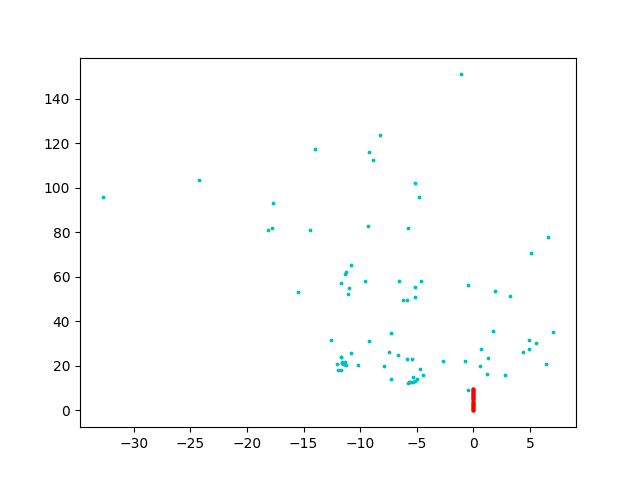
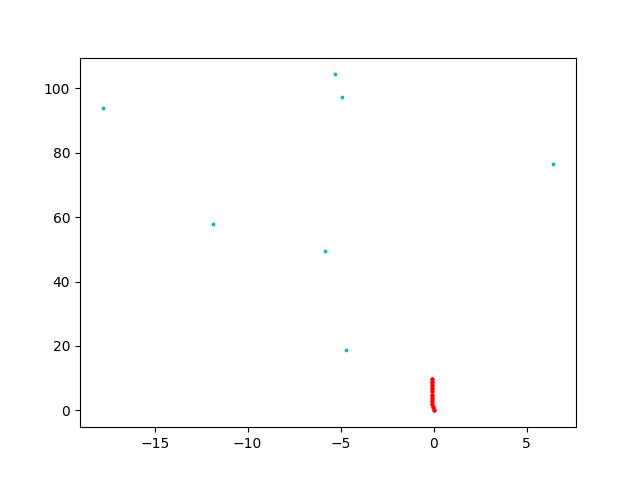
build graph seems to work without any error, optimization as well, results still need to be print and analized

diff --git a/ex5.py b/ex5.py
@@ -196,9 +196,9 @@ def adjust_bundle(db, keyframe1, keyframe2):
     k = get_gtsam_k_matrix()
     cameras_symbols, landmark_symbols = set(), set()
 
-    pose_uncertainty = gtsam.noiseModel.Diagonal.Sigmas([1e-3] * 3 + [1e-2] * 3)  # todo: nothing here is clear
-    # pose_uncertainty = gtsam.noiseModel.Diagonal.Sigmas(
-    #     np.array([(3 * np.pi / 180) ** 2] * 3 + [1.0, 0.3, 1.0]))  # todo: check maor's covariances
+    # pose_uncertainty = gtsam.noiseModel.Diagonal.Sigmas([1e-3] * 3 + [1e-2] * 3)  # todo: nothing here is clear
+    pose_uncertainty = gtsam.noiseModel.Diagonal.Sigmas(
+        np.array([(3 * np.pi / 180) ** 2] * 3 + [1.0, 0.3, 1.0]))  # todo: check maor's covariances
 
     frames_in_bundle = [db.frames[frame_id] for frame_id in range(keyframe1, keyframe2 + 1)]
     first_frame = frames_in_bundle[0]
@@ -332,23 +332,23 @@ def main():
     db = ex4.build_data()
 
     # 5.1
-    # track = utilities.get_track_in_len(db, 20, False)
-    # triangulate_from_last_frame_and_project_to_all_frames(db, track)
-    # keyframe1, keyframe2 = 0, 10
-    # graph, initial_estimate, bundle_data = adjust_bundle(db, keyframe1, keyframe2)
-    # factor_error_before_optimization = np.log(graph.error(initial_estimate))  # log-likelihood
-    # # ----3D Trajectory----:
-    # plot_trajectory(fignum=0, values=initial_estimate)
-    # # set_axes_equal(0)
-    # plt.savefig(fr"plots/ex5/Trajectory3D/Trajectory3D({keyframe1, keyframe2}).png")
-    # factor_error_after_optimization = np.log(graph.error(bundle_data.optimized_values))  # log-likelihood
-    # # ----2D Trajectory----:
-    # exs_plots.plot_left_cam_2d_trajectory(bundle_data)
-    # accum_scene(bundle_data.optimized_values, plot=True)
-    # plt.savefig(fr"plots/ex5/Trajectory2D/Trajectory2D({keyframe1, keyframe2}).png")
-    # # 5.2
-    # # ----Factor Error Diffs:----:
-    # utilities.present_factor_error_differences(factor_error_after_optimization, factor_error_before_optimization)
+    track = utilities.get_track_in_len(db, 20, False)
+    triangulate_from_last_frame_and_project_to_all_frames(db, track)
+    keyframe1, keyframe2 = 0, 10
+    graph, initial_estimate, bundle_data = adjust_bundle(db, keyframe1, keyframe2)
+    factor_error_before_optimization = np.log(graph.error(initial_estimate))  # log-likelihood
+    # ----3D Trajectory----:
+    plot_trajectory(fignum=0, values=initial_estimate)
+    # set_axes_equal(0)
+    plt.savefig(fr"plots/ex5/Trajectory3D/Trajectory3D({keyframe1, keyframe2}).png")
+    factor_error_after_optimization = np.log(graph.error(bundle_data.optimized_values))  # log-likelihood
+    # ----2D Trajectory----:
+    exs_plots.plot_left_cam_2d_trajectory(bundle_data)
+    accum_scene(bundle_data.optimized_values, plot=True)
+    plt.savefig(fr"plots/ex5/Trajectory2D/Trajectory2D({keyframe1, keyframe2}).png")
+    # 5.2
+    # ----Factor Error Diffs:----:
+    utilities.present_factor_error_differences(factor_error_after_optimization, factor_error_before_optimization)
 
     # 5.3
 

diff --git a/PoseGraphData.py b/PoseGraphData.py
@@ -15,6 +15,7 @@ class PoseGraph:
         self.initial_estimate = gtsam.Values()
         self.optimized_values = None
         self.graph = gtsam.NonlinearFactorGraph()
+        self.build_factor_graph()
 
     @staticmethod
     def get_bundle_relative_covariance_and_poses(bundle):
@@ -55,4 +56,47 @@ class PoseGraph:
             cov_mat_lst.append(cond_cov_mat)
             rel_poses_lst.append(relative_pose)
 
-        return rel_poses_lst, cov_mat_lst
+        return cov_mat_lst, rel_poses_lst
+
+    def build_factor_graph(self):
+        # Create first camera symbol
+        gtsam_cur_global_pose = gtsam.Pose3()
+        first_left_cam_sym = symbol('c', self.key_frames[0][0])
+
+        self.global_pose.append(gtsam_cur_global_pose)
+
+        pose_uncertainty = gtsam.noiseModel.Diagonal.Sigmas(
+            np.array([(3 * np.pi / 180) ** 2] * 3 + [1.0, 0.3, 1.0]))
+        factor = gtsam.PriorFactorPose3(first_left_cam_sym, gtsam_cur_global_pose, pose_uncertainty)
+        self.graph.add(factor)
+
+        self.initial_estimate.insert(first_left_cam_sym, gtsam_cur_global_pose)
+
+        prev_sym = first_left_cam_sym
+
+        # Create factor for each pose and add it to the graph
+        for i in range(1, len(self.rel_poses)):
+            cur_sym = symbol('c', self.key_frames[i][0])
+            gtsam_cur_global_pose = gtsam_cur_global_pose.compose(self.rel_poses[i])
+            self.global_pose.append(gtsam_cur_global_pose)
+
+            # Create factor
+            noise_model = gtsam.noiseModel.Gaussian.Covariance(self.cov[i - 1])
+            factor = gtsam.BetweenFactorPose3(prev_sym, cur_sym, self.rel_poses[i], noise_model)
+            self.graph.add(factor)
+
+            # Add initial estimate
+            self.initial_estimate.insert(cur_sym,  gtsam_cur_global_pose)
+
+            prev_sym = cur_sym
+
+
+    def optimize(self):
+        self.optimizer = gtsam.LevenbergMarquardtOptimizer(self.graph, self.initial_estimate)
+        self.optimized_values = self.optimizer.optimize()
+
+    def get_optimized_graph_error(self):
+        return self.graph.error(self.optimized_values)
+
+    def get_initial_graph_error(self):
+        return self.graph.error(self.initial_estimate)

diff --git a/ex6.py b/ex6.py
@@ -8,26 +8,28 @@ from PoseGraphData import PoseGraph
 
 # ----------------------------------------------------6.1---------------------------------------------------------------
 def get_first_bundle_info(db):
-    keyframe1, keyframe2 = 0, 5
+    keyframe1, keyframe2 = 0, 7
     _, _, bundle_data = adjust_bundle(db, keyframe1, keyframe2)
     marginals = bundle_data.get_marginals()
     optimized_values = bundle_data.optimized_values
     plot.plot_trajectory(1, optimized_values, marginals=marginals, scale=1, title="Pose's Covariance")
     plt.show()
 
-    # Apply marginalization and conditioning at the last key frame
+    # Covariance (marginalization and conditioning):
     keys = gtsam.KeyVector()
     keys.append(symbol('c', keyframe1))
     keys.append(symbol('c', keyframe2))
     information_mat_first_second = marginals.jointMarginalInformation(keys).at(keys[-1], keys[-1])
     cond_cov_mat = np.linalg.inv(information_mat_first_second)
 
+    # Relative pose:
     first_camera = optimized_values.atPose3(symbol('c', keyframe1))
     second_camera = optimized_values.atPose3(symbol('c', keyframe2))
     relative_pose = first_camera.between(second_camera)
 
     print("Relative covariance between the frame poses:\n", cond_cov_mat, "\n")
     print("Relative poses of last key frames:\n", relative_pose)
+
 
 # ----------------------------------------------------6.2---------------------------------------------------------------
 
@@ -37,9 +39,10 @@ def main():
     # 6.1:
     # get_first_bundle_info(db)
     # 6.2:
-    # bundles = utilities.get_bundles()
-    _, _, bundles = adjust_all_bundles(db, utilities.perfect_fives)
-    pose_graph = PoseGraph(utilities.fives, bundles)
+    bundles = utilities.get_bundles()
+    # _, _, bundles = adjust_all_bundles(db, utilities.perfect_fives)
+    pose_graph = PoseGraph(utilities.perfect_fives, bundles)
+    pose_graph.optimize()
 
 
 if __name__ == '__main__':
